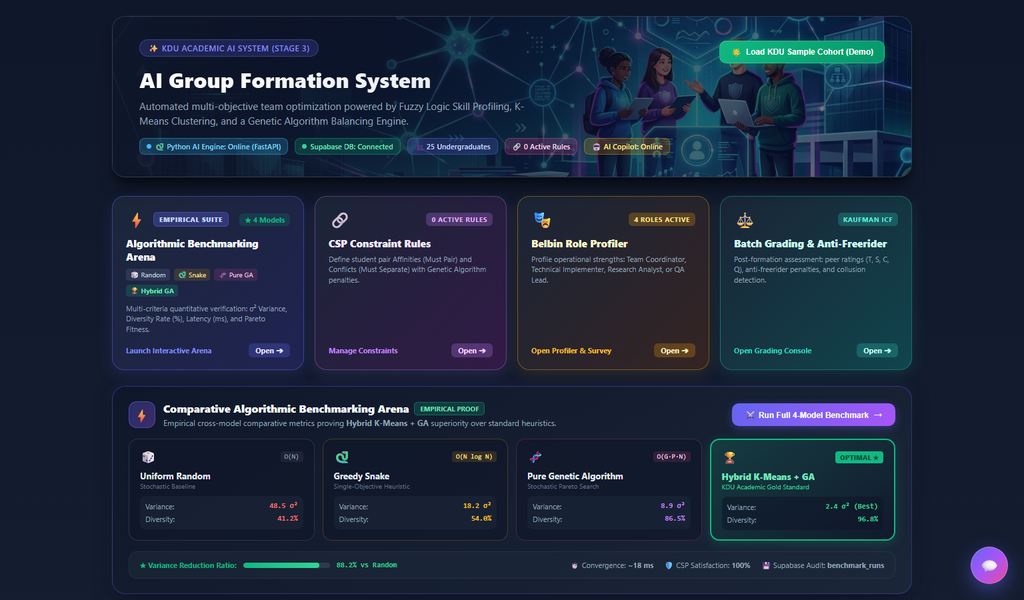
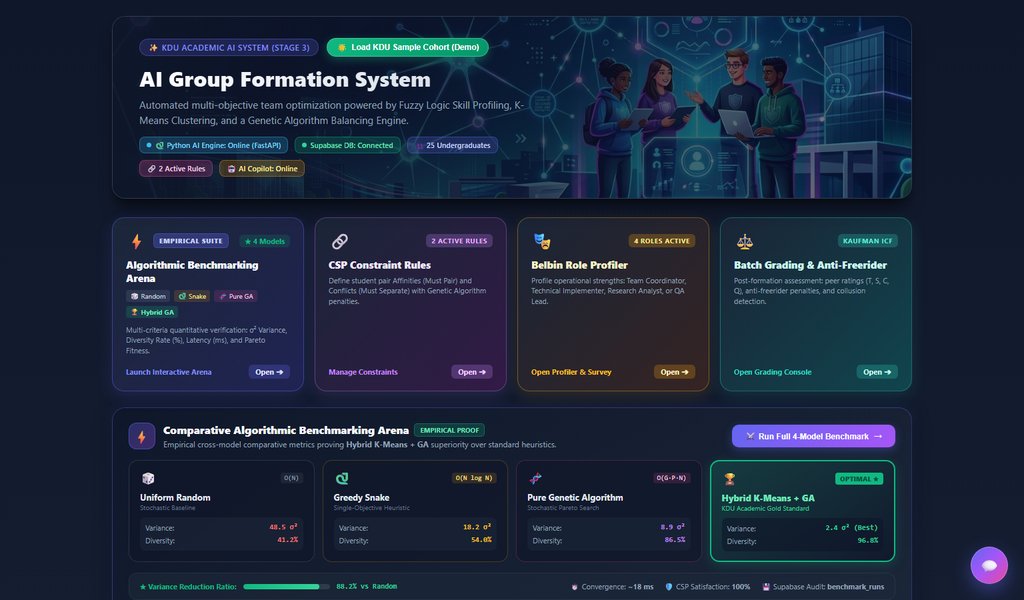
fix(ui): realign sample cohort demo button to top-left to avoid overlapping background artwork faces

Changed region(s): [[0.0938, 0.03, 0.9062, 0.99]]

diff --git a/frontend/src/App.jsx b/frontend/src/App.jsx
@@ -1371,41 +1371,43 @@ function App() {
           <div className="hero-img-wrapper">
             <img src={heroBanner} alt="KDU AI Group Formation" className="hero-img" />
             <div className="hero-overlay">
-              <div style={{ display: 'flex', justifyContent: 'space-between', alignItems: 'center', width: '100%', flexWrap: 'wrap', gap: '10px' }}>
-                <div className="hero-badge">
-                  ✨ KDU ACADEMIC AI SYSTEM (STAGE 3)
+              <div style={{ maxWidth: '650px', display: 'flex', flexDirection: 'column' }}>
+                <div style={{ display: 'flex', alignItems: 'center', gap: '12px', flexWrap: 'wrap', marginBottom: '10px' }}>
+                  <div className="hero-badge" style={{ margin: 0 }}>
+                    ✨ KDU ACADEMIC AI SYSTEM (STAGE 3)
+                  </div>
+                  <button
+                    type="button"
+                    onClick={handleLoadSampleCohort}
+                    style={{
+                      padding: '5px 14px',
+                      borderRadius: '9999px',
+                      fontSize: '12px',
+                      fontWeight: '700',
+                      background: 'linear-gradient(135deg, #10b981 0%, #059669 100%)',
+                      color: '#ffffff',
+                      border: '1px solid rgba(255, 255, 255, 0.25)',
+                      boxShadow: '0 4px 14px rgba(16, 185, 129, 0.35)',
+                      cursor: 'pointer',
+                      display: 'inline-flex',
+                      alignItems: 'center',
+                      gap: '6px',
+                      transition: 'transform 0.15s ease, box-shadow 0.15s ease'
+                    }}
+                    title="Populate 12 KDU undergraduates, 2 active rules, and 3 AI teams on Supabase"
+                  >
+                    <span>🌟</span>
+                    <span>Load KDU Sample Cohort (Demo)</span>
+                  </button>
                 </div>
-                <button
-                  type="button"
-                  onClick={handleLoadSampleCohort}
-                  style={{
-                    padding: '8px 16px',
-                    borderRadius: '10px',
-                    fontSize: '12px',
-                    fontWeight: '700',
-                    background: 'linear-gradient(135deg, #10b981 0%, #059669 100%)',
-                    color: '#ffffff',
-                    border: '1px solid rgba(255, 255, 255, 0.2)',
-                    boxShadow: '0 4px 14px rgba(16, 185, 129, 0.35)',
-                    cursor: 'pointer',
-                    display: 'flex',
-                    alignItems: 'center',
-                    gap: '6px'
-                  }}
-                  title="Populate 12 KDU undergraduates, 2 active rules, and 3 AI teams on Supabase"
-                >
-                  <span>🌟</span>
-                  <span>Load KDU Sample Cohort (Demo)</span>
-                </button>
-              </div>
 
-              <h1 className="hero-title">AI Group Formation System</h1>
-              <p className="hero-subtitle">
-                Automated multi-objective team optimization powered by Fuzzy Logic Skill Profiling, K-Means Clustering, and a Genetic Algorithm Balancing Engine.
-              </p>
+                <h1 className="hero-title">AI Group Formation System</h1>
+                <p className="hero-subtitle">
+                  Automated multi-objective team optimization powered by Fuzzy Logic Skill Profiling, K-Means Clustering, and a Genetic Algorithm Balancing Engine.
+                </p>
 
-              {/* LIVE DATABASE & SYSTEM TELEMETRY PILLS */}
-              <div style={{ display: 'flex', gap: '10px', marginTop: '14px', flexWrap: 'wrap', alignItems: 'center' }}>
+                {/* LIVE DATABASE & SYSTEM TELEMETRY PILLS */}
+                <div style={{ display: 'flex', gap: '10px', marginTop: '14px', flexWrap: 'wrap', alignItems: 'center' }}>
                 <span
                   style={{
                     fontSize: '11px',
@@ -1449,6 +1451,7 @@ function App() {
             </div>
           </div>
         </div>
+      </div>
 
         {/* AI DECISION-SUPPORT HUB (3 GLASS CARDS) */}
         <div style={{
